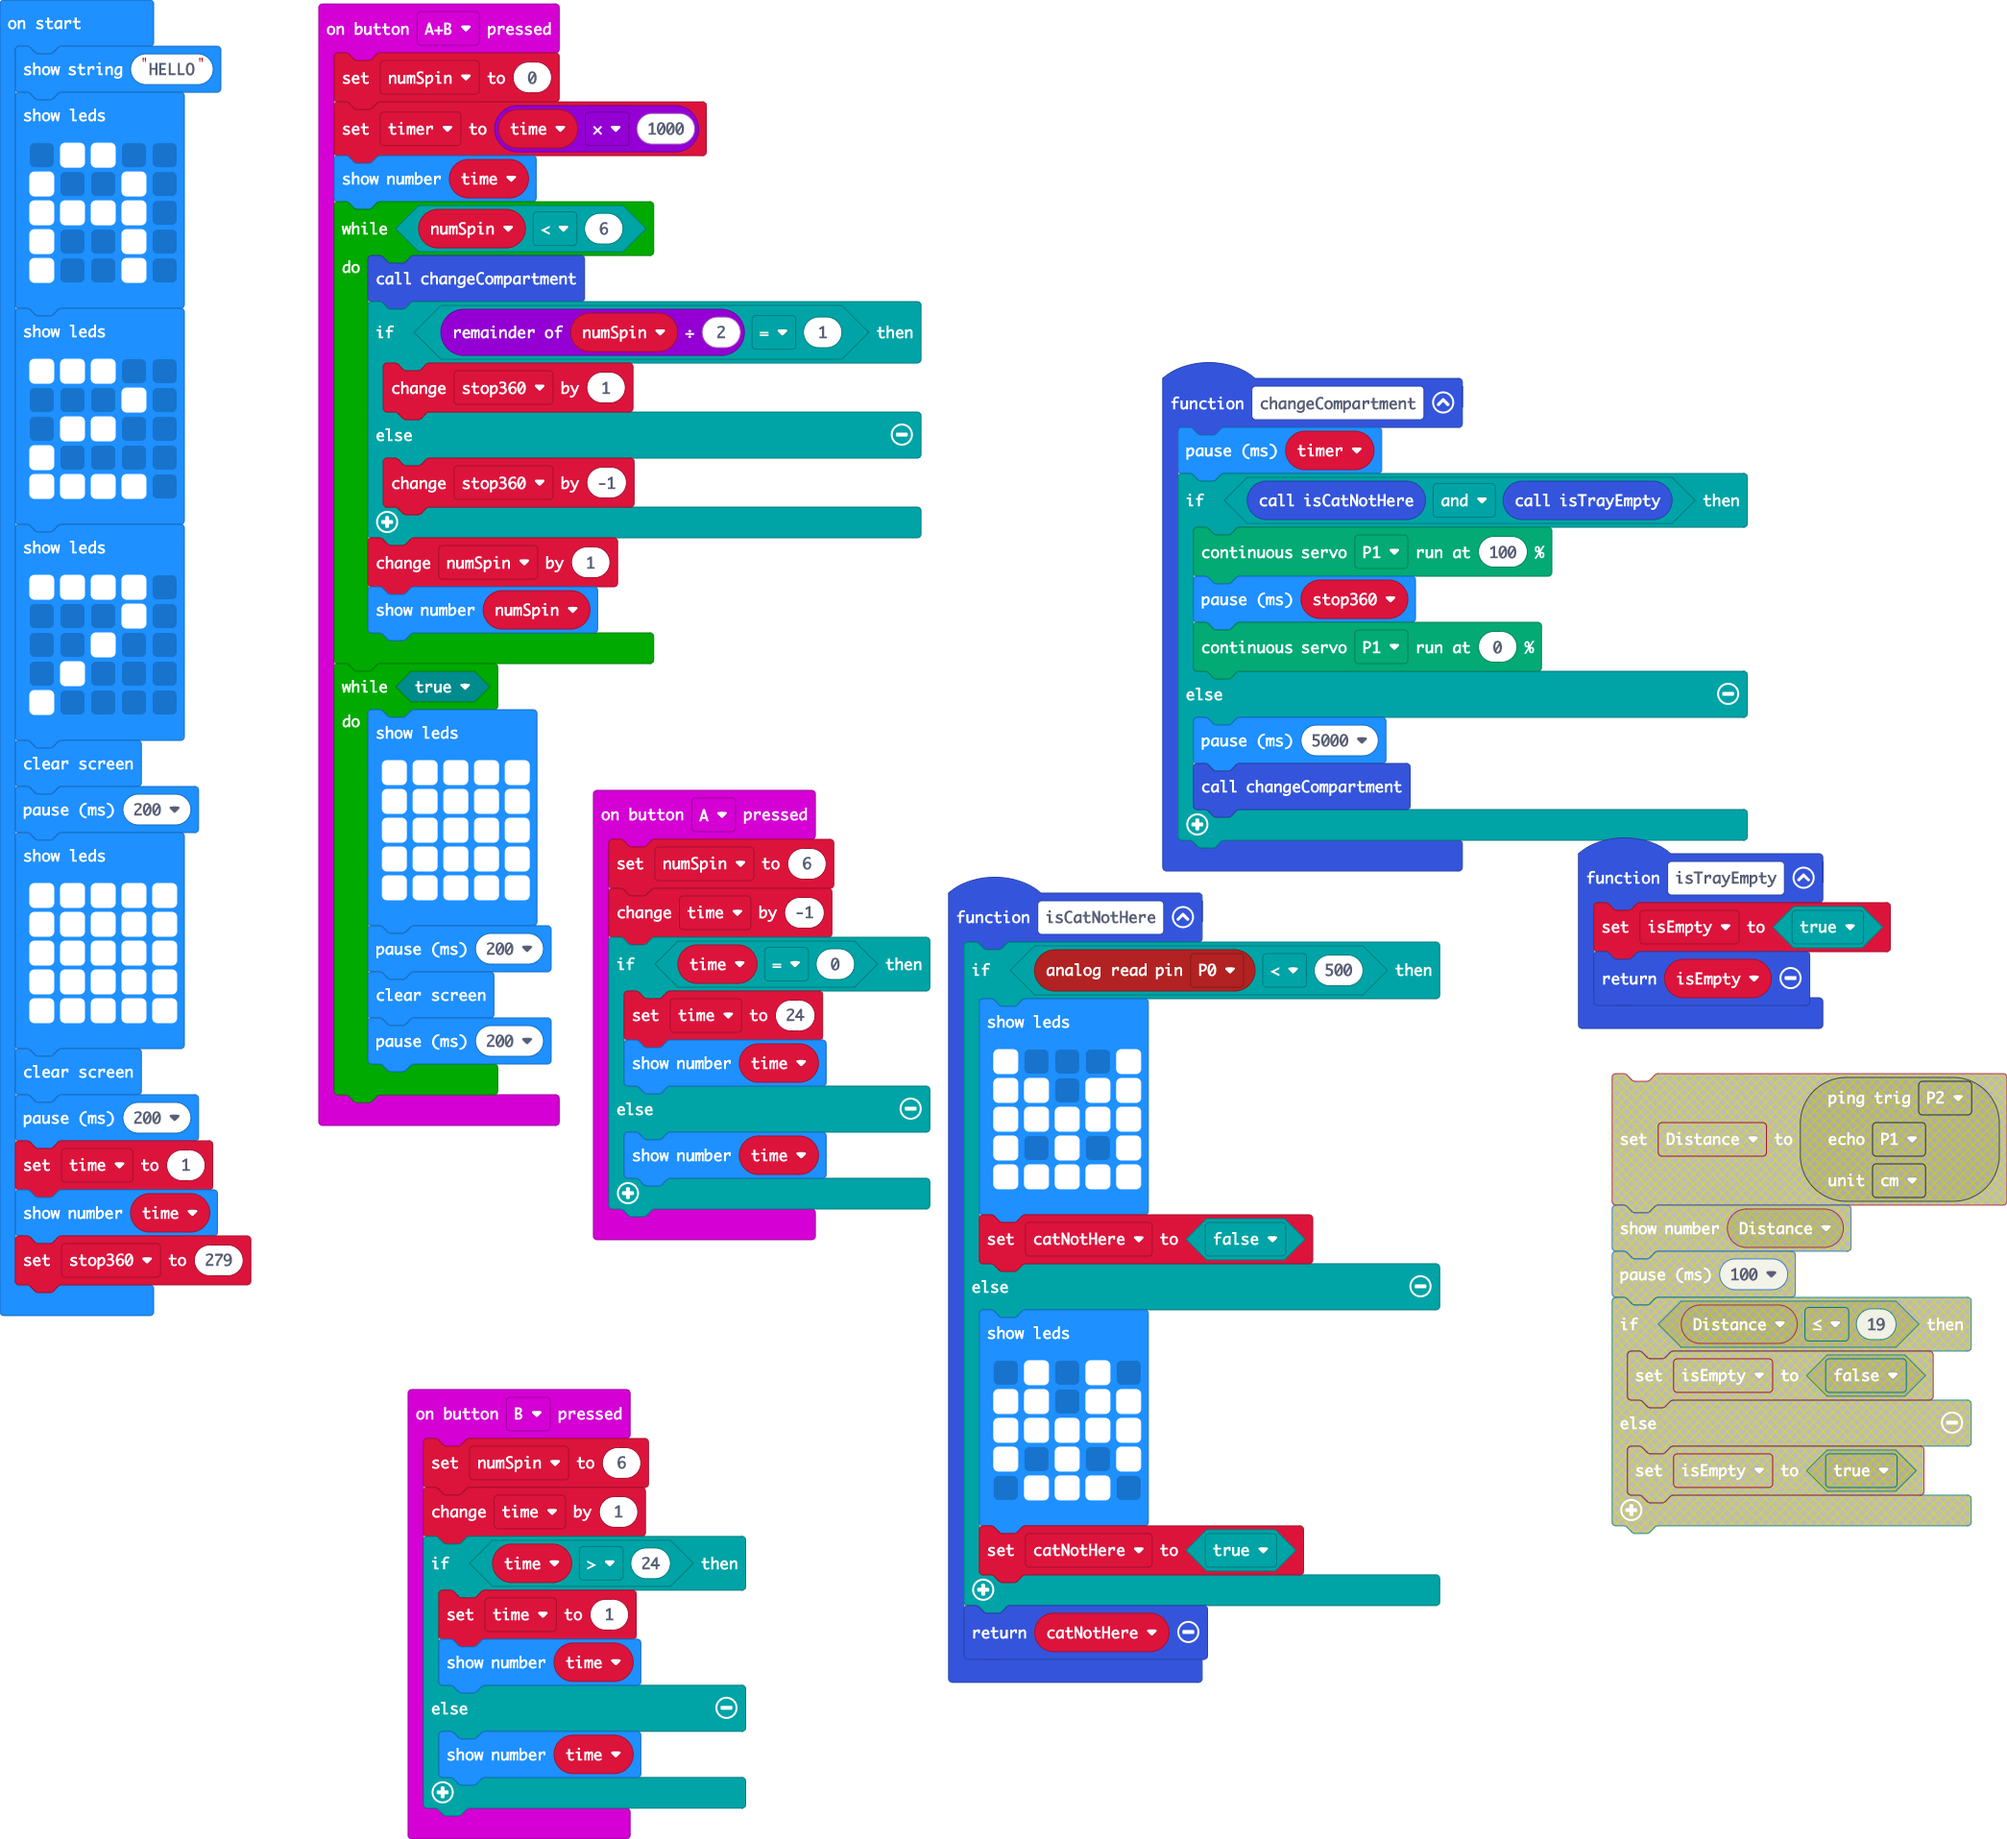
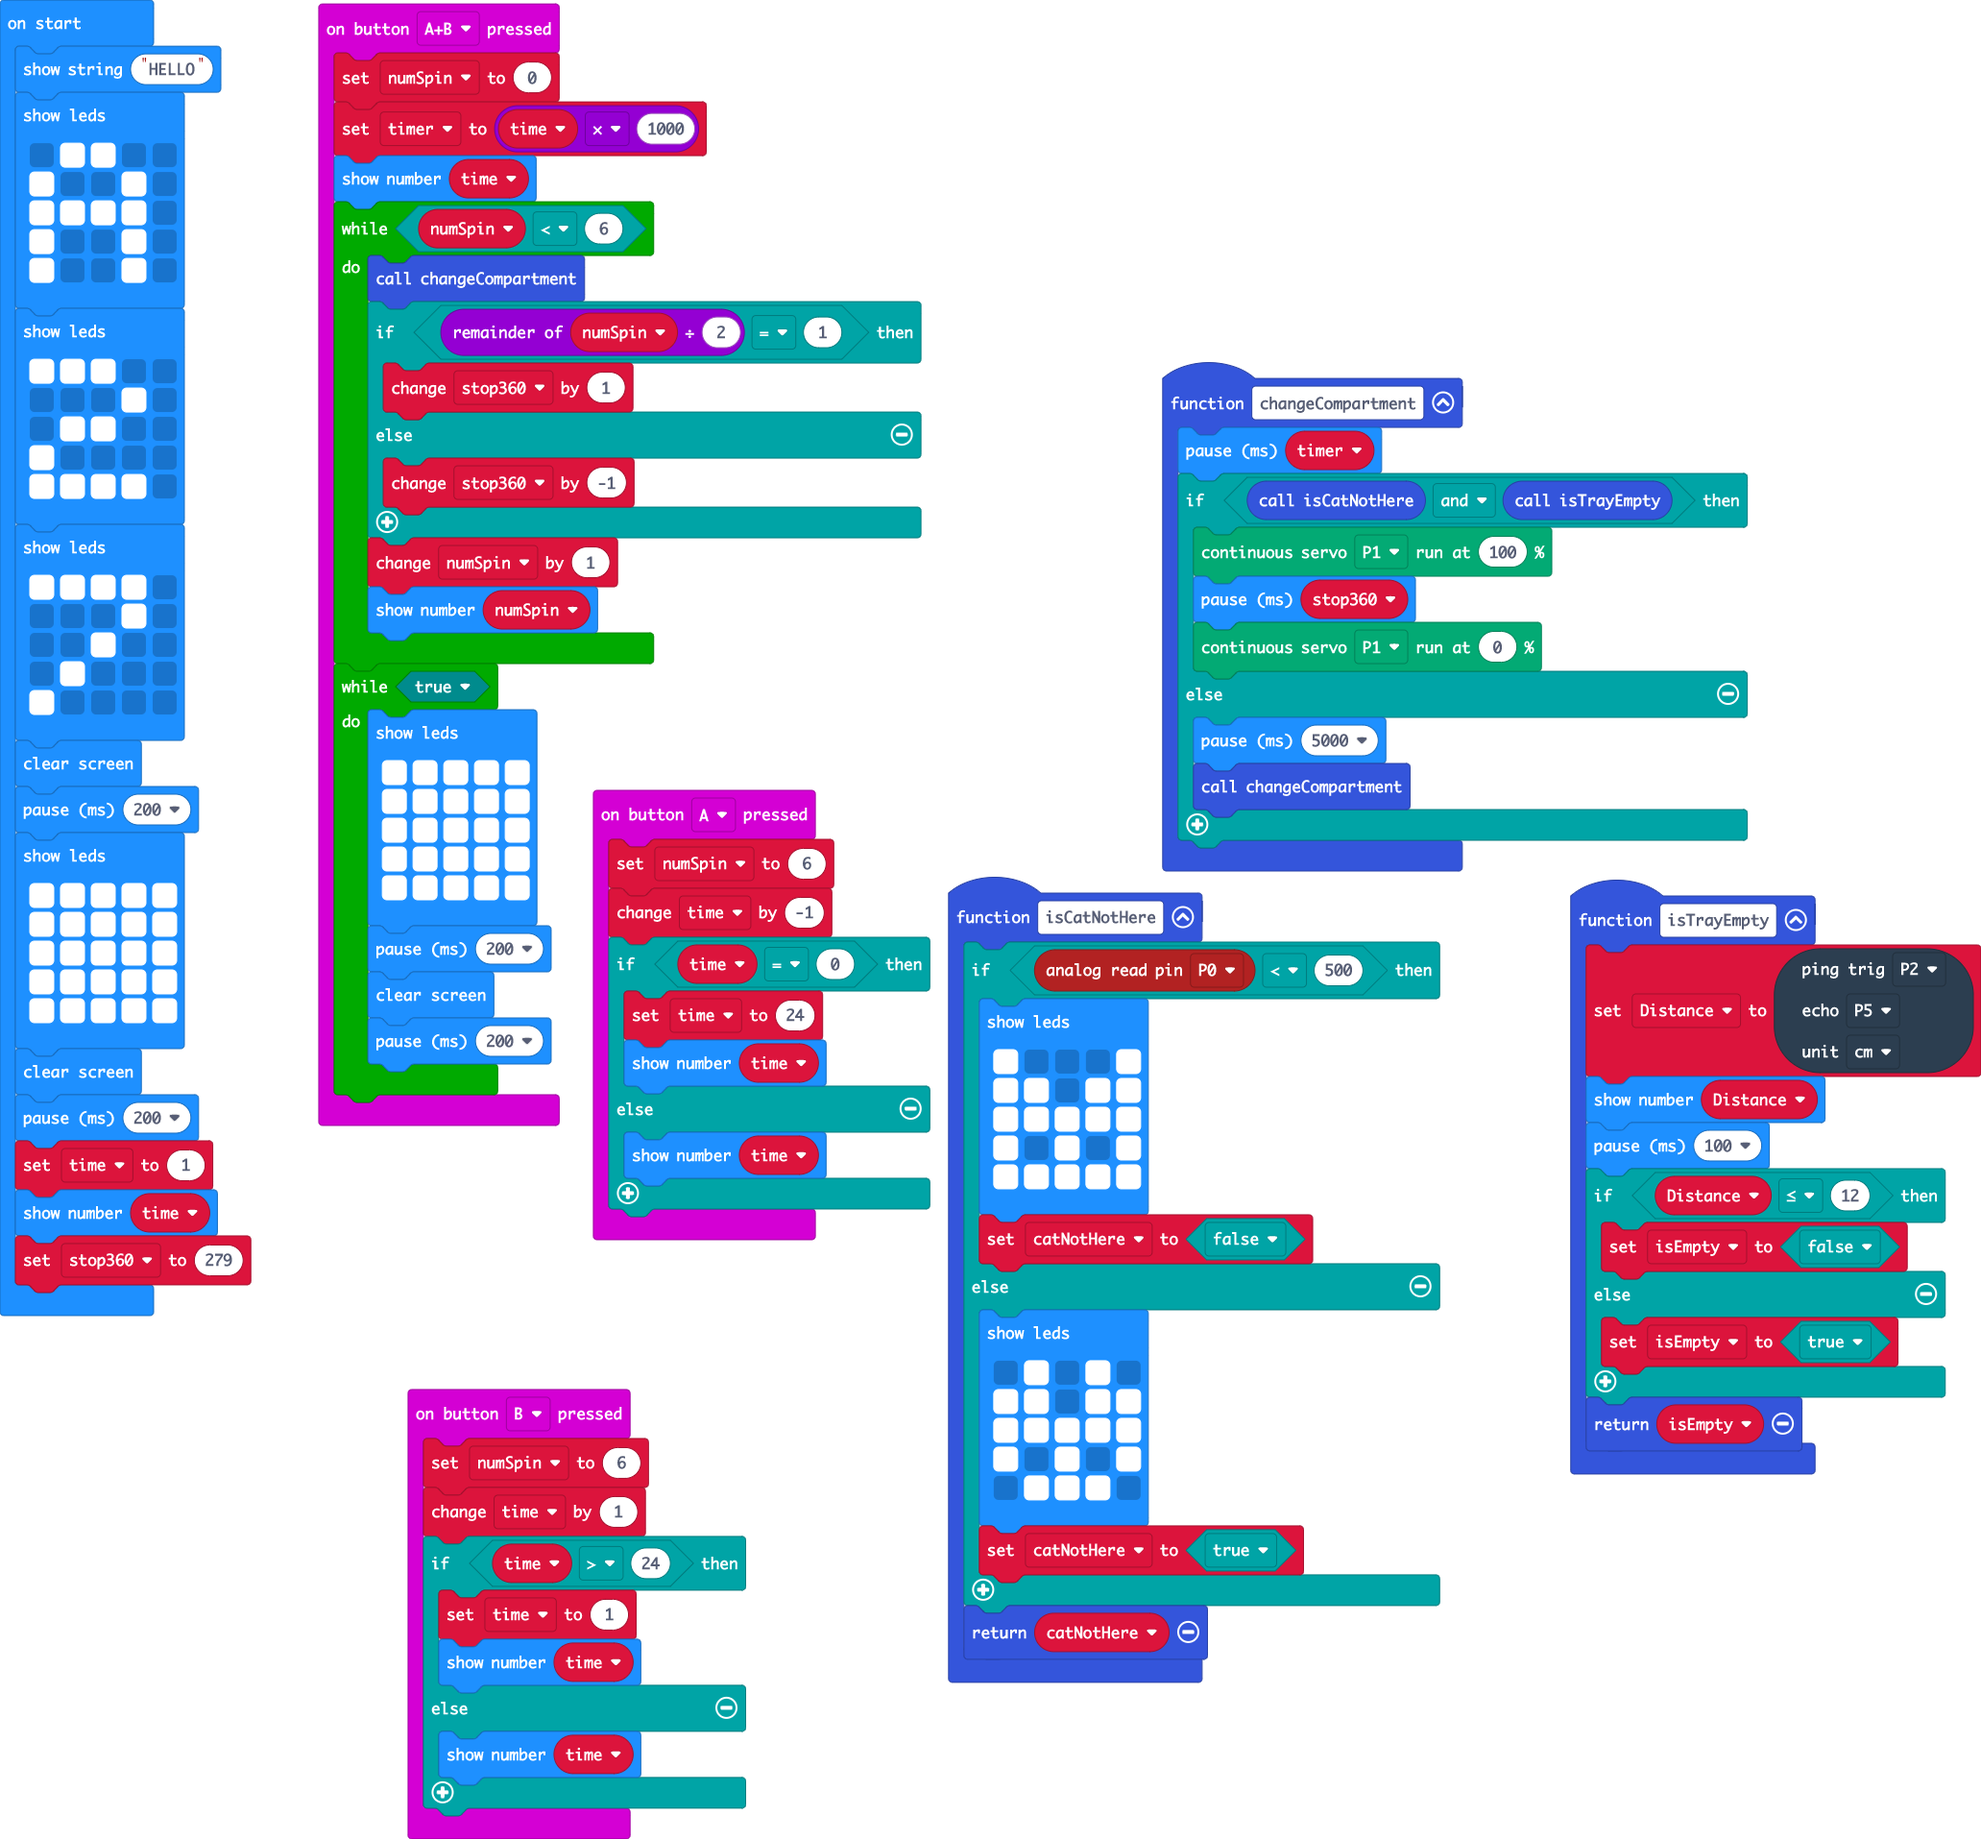
Update main.blocks, main.ts, main.py

diff --git a/main.ts b/main.ts
@@ -79,10 +79,22 @@ input.onButtonPressed(Button.B, function () {
     }
 })
 function isTrayEmpty () {
-    isEmpty = true
+    Distance = sonar.ping(
+    DigitalPin.P2,
+    DigitalPin.P5,
+    PingUnit.Centimeters
+    )
+    basic.showNumber(Distance)
+    basic.pause(100)
+    if (Distance <= 12) {
+        isEmpty = false
+    } else {
+        isEmpty = true
+    }
     return isEmpty
 }
 let isEmpty = false
+let Distance = 0
 let timer = 0
 let numSpin = 0
 let catNotHere = false

diff --git a/main.py b/main.py
@@ -1,6 +1,6 @@
 def isCatNotHere():
     global catNotHere
-    if pins.analog_read_pin(AnalogPin.P0) > 500:
+    if pins.analog_read_pin(AnalogPin.P0) < 500:
         basic.show_leds("""
             # . . . #
                         # # . # #
@@ -21,7 +21,8 @@ def isCatNotHere():
     return catNotHere
 
 def on_button_pressed_a():
-    global time
+    global numSpin, time
+    numSpin = 6
     time += -1
     if time == 0:
         time = 24
@@ -31,36 +32,44 @@ def on_button_pressed_a():
 input.on_button_pressed(Button.A, on_button_pressed_a)
 
 def changeCompartment():
+    basic.pause(timer)
     if isCatNotHere() and isTrayEmpty():
-        servos.P0.run(100)
+        servos.P1.run(100)
         basic.pause(stop360)
-        servos.P0.run(0)
+        servos.P1.run(0)
     else:
         basic.pause(5000)
         changeCompartment()
 
 def on_button_pressed_ab():
-    global timer, numSpin, stop360
+    global numSpin, timer, stop360
+    numSpin = 0
     timer = time * 1000
     basic.show_number(time)
-    numSpin = 0
-    stop360 = 1161
-    while numSpin != 6:
-        basic.pause(timer)
+    while numSpin < 6:
         changeCompartment()
-        if input.button_is_pressed(Button.AB):
-            break
         if numSpin % 2 == 1:
             stop360 += 1
         else:
             stop360 += -1
         numSpin += 1
         basic.show_number(numSpin)
-    basic.show_number(time)
+    while True:
+        basic.show_leds("""
+            # # # # #
+                        # # # # #
+                        # # # # #
+                        # # # # #
+                        # # # # #
+        """)
+        basic.pause(200)
+        basic.clear_screen()
+        basic.pause(200)
 input.on_button_pressed(Button.AB, on_button_pressed_ab)
 
 def on_button_pressed_b():
-    global time
+    global numSpin, time
+    numSpin = 6
     time += 1
     if time > 24:
         time = 1
@@ -70,14 +79,21 @@ def on_button_pressed_b():
 input.on_button_pressed(Button.B, on_button_pressed_b)
 
 def isTrayEmpty():
-    global isEmpty
-    isEmpty = True
+    global Distance, isEmpty
+    Distance = sonar.ping(DigitalPin.P2, DigitalPin.P1, PingUnit.CENTIMETERS)
+    basic.show_number(Distance)
+    basic.pause(100)
+    if Distance <= 19:
+        isEmpty = False
+    else:
+        isEmpty = True
     return isEmpty
 isEmpty = False
-numSpin = 0
+Distance = 0
 timer = 0
-stop360 = 0
+numSpin = 0
 catNotHere = False
+stop360 = 0
 time = 0
 basic.show_string("HELLO")
 basic.show_leds("""
@@ -101,5 +117,17 @@ basic.show_leds("""
         . # . . .
         # . . . .
 """)
+basic.clear_screen()
+basic.pause(200)
+basic.show_leds("""
+    # # # # #
+        # # # # #
+        # # # # #
+        # # # # #
+        # # # # #
+""")
+basic.clear_screen()
+basic.pause(200)
 time = 1
 basic.show_number(time)
+stop360 = 279
